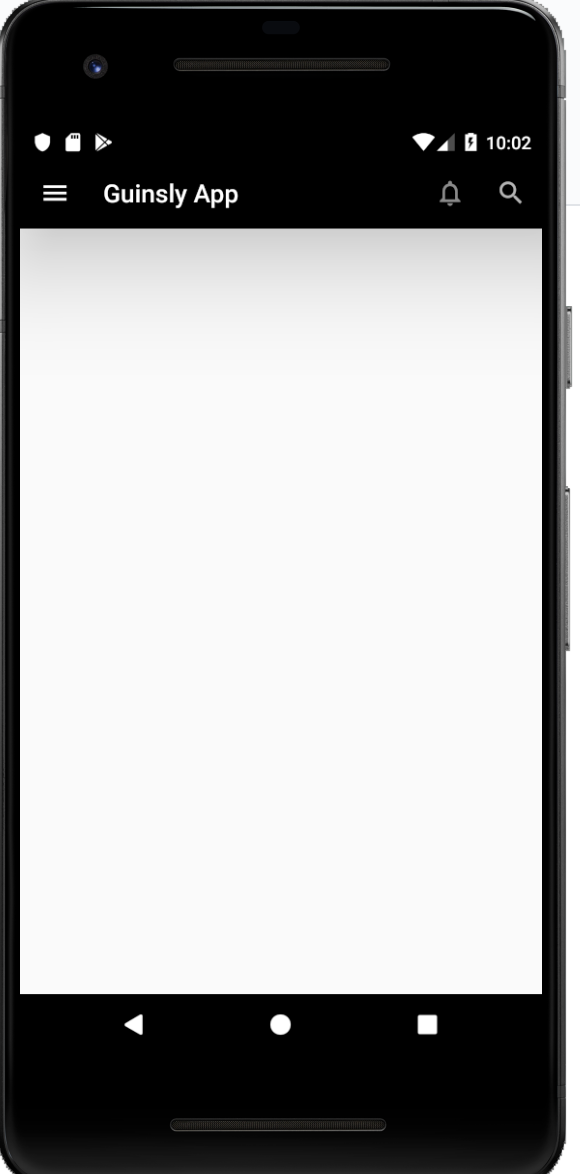
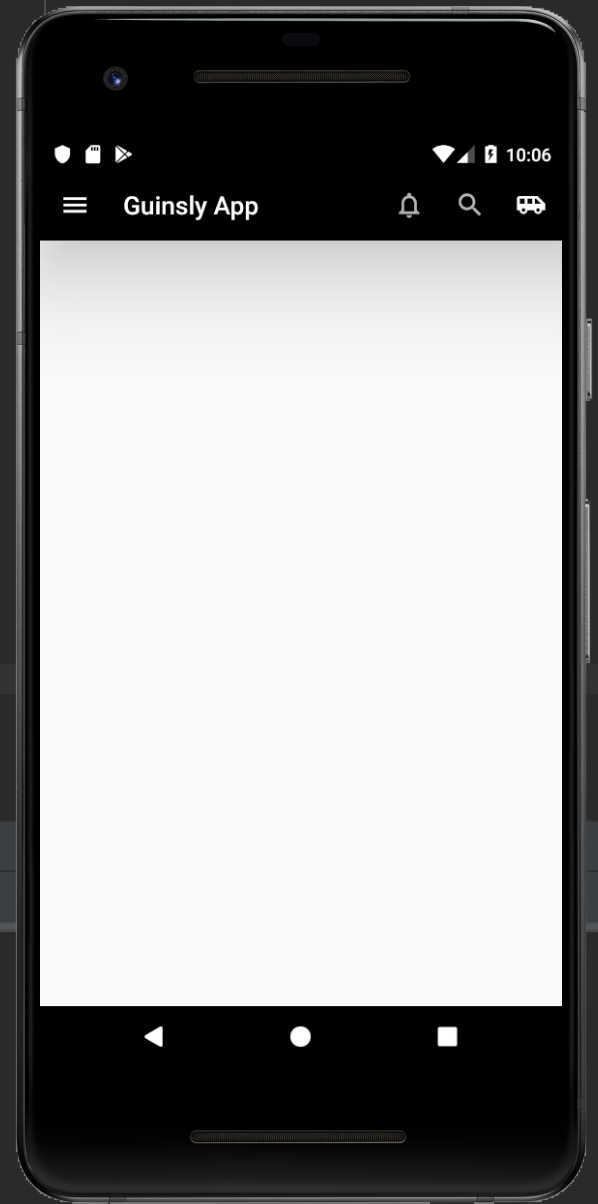
pictures

Changed region(s): [[0.0, 0.0, 1.0, 1.0]]

diff --git a/lib/main.dart b/lib/main.dart
@@ -19,6 +19,9 @@ void main() => runApp(MaterialApp(
         IconButton(icon: Icon(Icons.search), onPressed: (){
           print("Search Clicked");
         }, color: Colors.white70),
+        IconButton(icon: Icon(Icons.airport_shuttle), onPressed: (){
+          print("Air port shuttle clicked");
+        },),
       ],
     ),
   ),

diff --git a/README.md b/README.md
@@ -36,14 +36,40 @@ void main() => runApp(MaterialApp(
         IconButton(icon: Icon(Icons.notifications_none), onPressed: (){
           print("Notification clicked");
         }, color: Colors.white70),
+        
+```
+dart
+
+import 'package:flutter/material.dart';
+
+void main() => runApp(MaterialApp(
+  debugShowCheckedModeBanner: false,
+  home:Scaffold(
+    appBar: AppBar(
+      centerTitle: false,
+      elevation: 60,
+      titleSpacing: 10,
+      title: Text("Guinsly App"),
+      backgroundColor: Colors.black,
+      leading: IconButton(icon: Icon(Icons.menu), onPressed: (){
+        print('clicked on menu');
+      },),
+      actions: <Widget>[
+        IconButton(icon: Icon(Icons.notifications_none), onPressed: (){
+          print("Notification clicked");
+        }, color: Colors.white70),
         IconButton(icon: Icon(Icons.search), onPressed: (){
           print("Search Clicked");
         }, color: Colors.white70),
+        IconButton(icon: Icon(Icons.airport_shuttle), onPressed: (){
+          print("Air port shuttle clicked");
+        },),
       ],
     ),
   ),
 )
 );
-```
 
 
+
+```dart
